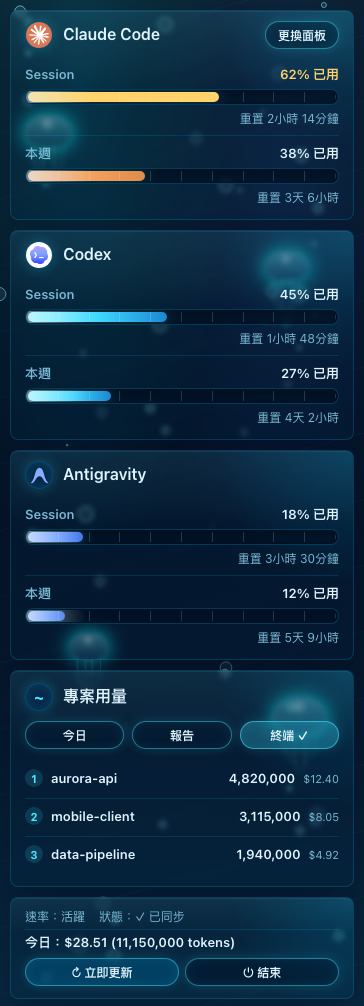
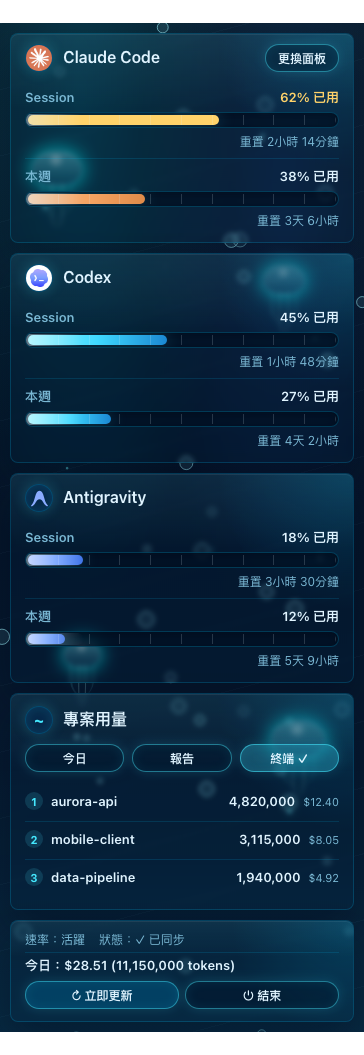
docs(readme): 圖庫統一截圖高度並移出世界盃面板
上一版補齊十三張之後版面反而更亂：圖庫一行放三張，只要有一張比鄰居
矮，整個格線就會歪掉、留下大片空白。原本十張的高度差是 798 到 869，
補進來的把範圍拉到 812 到 1055。

兩件事一起處理。所有截圖改用最高那個面板的高度來拍——面板的 body 是
height: 100vh，拉高之後自己的背景會填滿多出來的部分，實測 world_cup
的足球場反而更完整。剩下十二個面板高度落在 1004 到 1055，統一之後看
不出被拉過。

world_cup 是寬版 HUD、天生就比其他面板矮 243 像素，這次不放進 README
圖庫。十二張圖剛好排成四行。十三個面板在官網都還在，而且是各自單獨
按自己的尺寸顯示。docs/DEVELOPMENT.md 仍然引用 world_cup 的截圖，
所以那兩個檔案留著。

diff --git a/scripts/make_panel_shots.py b/scripts/make_panel_shots.py
@@ -92,11 +92,16 @@ def main() -> int:
     out_dir.mkdir(parents=True, exist_ok=True)
     panels = json.loads(index_path.read_text(encoding="utf-8"))
 
+    # README 用 width="32%" 把截圖三張並排，高度不一就會錯位、留下大片空白
+    # （world_cup 812 對上 win95 1055 差了 243px）。全部截成最高的那個尺寸，
+    # 面板的 body 是 height: 100vh，拉高後自己的背景會填滿多出來的部分。
+    shot_height = max(int(panel["height"]) for panel in panels)
+
     with tempfile.TemporaryDirectory() as tmp:
         tmp_dir = Path(tmp)
         for panel in panels:
             width = int(panel["width"])
-            height = int(panel["height"])
+            height = shot_height
             for language, suffix in LANGUAGE_SUFFIXES.items():
                 wrapper = tmp_dir / f"{panel['id']}{suffix or '.zh'}.html"
                 wrapper.write_text(

diff --git a/CHANGELOG.md b/CHANGELOG.md
@@ -8,7 +8,7 @@ Format follows [Keep a Changelog](https://keepachangelog.com/).
 ## [Unreleased]
 
 ### Changed
-- **The README theme galleries show all thirteen panels, and no longer show anyone's real usage.** All five READMEs listed ten screenshots under a heading that said thirteen — `stained_glass` and `origami` had never been photographed, `catppuccin` only in Chinese. The old images were also hand-captured from a real machine, so they carried actual project names and dollar amounts onto a public page, and predated the Antigravity card entirely. Every shot is now regenerated by `scripts/make_panel_shots.py` from the same synthetic payload the website uses, at the panel's own `preferred_size()`. GitHub strips scripts and iframes from Markdown, so the README stays static images; the live picker is on the website.
+- **The README theme galleries are rebuilt from synthetic data and now line up.** All five READMEs listed ten screenshots under a heading that said thirteen — `stained_glass` and `origami` had never been photographed, `catppuccin` only in Chinese. The old images were also hand-captured from a real machine, so they carried actual project names and dollar amounts onto a public page, and predated the Antigravity card entirely. Every shot is now regenerated by `scripts/make_panel_shots.py` from the same synthetic payload the website uses. The galleries place three images per row, so a panel that is shorter than its neighbours pushes the whole grid out of line; the shots are therefore all captured at the tallest panel's height, and `world_cup` — a wide HUD that is genuinely 243 pixels shorter than the rest — sits this gallery out. Twelve images, four even rows. All thirteen are still on the website, where each one is shown alone at its own size. GitHub strips scripts and iframes from Markdown, so the README stays static images.
 - **The website now shows all thirteen panels, live, instead of ten screenshots.** The gallery held ten static images; `origami` and `stained_glass` had never been photographed at all, and `catppuccin` only in Chinese — so the page showed ten themes under a heading that said thirteen. It now renders the real panel HTML in a frame with a hand-written demo payload, and the theme list comes from `panels.all_panels()`, so a fourteenth panel appears on the site by running `scripts/make_panel_demo.py` rather than by remembering to take two more screenshots. Picking a language on the site switches the panel too, in all five languages, because the site's existing `applyLang()` forwards to it. The panel is display-only — its Switch Panel and Quit buttons have no native side to answer them on a web page. The old screenshots stay in `docs/`; the READMEs still link to them.
 
 ### Internal

diff --git a/CHANGELOG.zh-TW.md b/CHANGELOG.zh-TW.md
@@ -7,7 +7,7 @@
 ## [Unreleased]
 
 ### 變更
-- **README 的主題圖庫補齊十三個面板，也不再露出任何人的真實用量。** 五份 README 都在寫著十三款的標題底下放十張截圖——`stained_glass` 和 `origami` 從來沒被拍過，`catppuccin` 只有中文那張。舊圖還是在真機上手動截的，於是把實際的專案名稱與金額帶上了公開頁面，而且拍攝時間早於 Antigravity 卡片、根本沒有它。現在每一張都由 `scripts/make_panel_shots.py` 重新產生，用的是官網那份相同的示範資料，尺寸取自面板自己的 `preferred_size()`。GitHub 會把 Markdown 裡的腳本與 iframe 濾掉，所以 README 維持靜態圖片；會動的那個在官網。
+- **README 的主題圖庫改用示範資料重做，排版也對齊了。** 五份 README 都在寫著十三款的標題底下放十張截圖——`stained_glass` 和 `origami` 從來沒被拍過，`catppuccin` 只有中文那張。舊圖還是在真機上手動截的，於是把實際的專案名稱與金額帶上了公開頁面，而且拍攝時間早於 Antigravity 卡片、根本沒有它。現在每一張都由 `scripts/make_panel_shots.py` 重新產生，用的是官網那份相同的示範資料。圖庫一行放三張，只要有一張比鄰居矮，整個格線就會歪掉；因此所有截圖都改用最高那個面板的高度來拍，而 `world_cup` 是寬版 HUD、天生就比其他面板矮了 243 像素，這次不放進圖庫。十二張圖、剛好四行。十三個面板在官網都還在，而且是各自單獨、按自己的尺寸顯示。GitHub 會把 Markdown 裡的腳本與 iframe 濾掉，所以 README 維持靜態圖片。
 - **官網的面板區從十張截圖換成十三個活的面板。** 原本的圖庫放十張靜態圖，`origami` 和 `stained_glass` 從來沒被拍過，`catppuccin` 只有中文那一張——於是標題寫著十三款、底下只看得到十款。現在它把真正的面板 HTML 放進框裡跑，餵一份手寫的示範資料，主題清單直接來自 `panels.all_panels()`，所以日後第十四個面板只要跑一次 `scripts/make_panel_demo.py` 就會出現在官網，不必記得再去補兩張截圖。在官網切語言，面板也跟著切，五種語言都是，因為官網原本的 `applyLang()` 會把語言轉發進去。面板只供觀看——它的「更換面板」與「結束」在網頁上沒有原生端可以回應。舊的截圖留在 `docs/` 底下，五份 README 仍然連著它們。
 
 ### 內部

diff --git a/README.zh-CN.md b/README.zh-CN.md
@@ -158,7 +158,6 @@ Free code signing provided by [SignPath.io](https://about.signpath.io/), certifi
   <img src="docs/origami.en.png" width="32%" alt="Origami 主题" />
   <img src="docs/black_hole.en.png" width="32%" alt="Black Hole 主题" />
   <img src="docs/lepidoptera.en.png" width="32%" alt="Lepidoptera 主题" />
-  <img src="docs/world_cup.en.png" width="32%" alt="World Cup HUD 主题" />
   <img src="docs/catppuccin.en.png" width="32%" alt="Catppuccin 主题" />
 </p>
 

diff --git a/README.ko.md b/README.ko.md
@@ -158,7 +158,6 @@ UI에서 직접 **13가지 시각 테마**를 전환하세요.
   <img src="docs/origami.en.png" width="32%" alt="Origami 테마" />
   <img src="docs/black_hole.en.png" width="32%" alt="Black Hole 테마" />
   <img src="docs/lepidoptera.en.png" width="32%" alt="Lepidoptera 테마" />
-  <img src="docs/world_cup.en.png" width="32%" alt="World Cup HUD 테마" />
   <img src="docs/catppuccin.en.png" width="32%" alt="Catppuccin 테마" />
 </p>
 

diff --git a/README.zh-TW.md b/README.zh-TW.md
@@ -158,7 +158,6 @@ Free code signing provided by [SignPath.io](https://about.signpath.io/), certifi
   <img src="docs/origami.png" width="32%" alt="摺紙主題" />
   <img src="docs/black_hole.png" width="32%" alt="黑洞主題" />
   <img src="docs/lepidoptera.png" width="32%" alt="Lepidoptera 主題" />
-  <img src="docs/world_cup.png" width="32%" alt="世界盃 HUD 主題" />
   <img src="docs/catppuccin.png" width="32%" alt="Catppuccin 主題" />
 </p>
 

diff --git a/README.md b/README.md
@@ -158,7 +158,6 @@ Switch between **13 visual themes** directly from the UI:
   <img src="docs/origami.en.png" width="32%" alt="Origami theme" />
   <img src="docs/black_hole.en.png" width="32%" alt="Black Hole theme" />
   <img src="docs/lepidoptera.en.png" width="32%" alt="Lepidoptera theme" />
-  <img src="docs/world_cup.en.png" width="32%" alt="World Cup HUD theme" />
   <img src="docs/catppuccin.en.png" width="32%" alt="Catppuccin theme" />
 </p>
 
